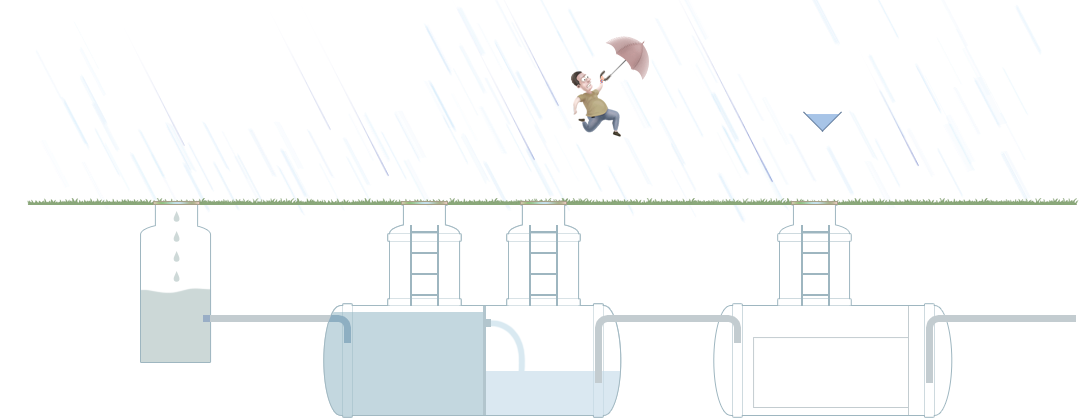
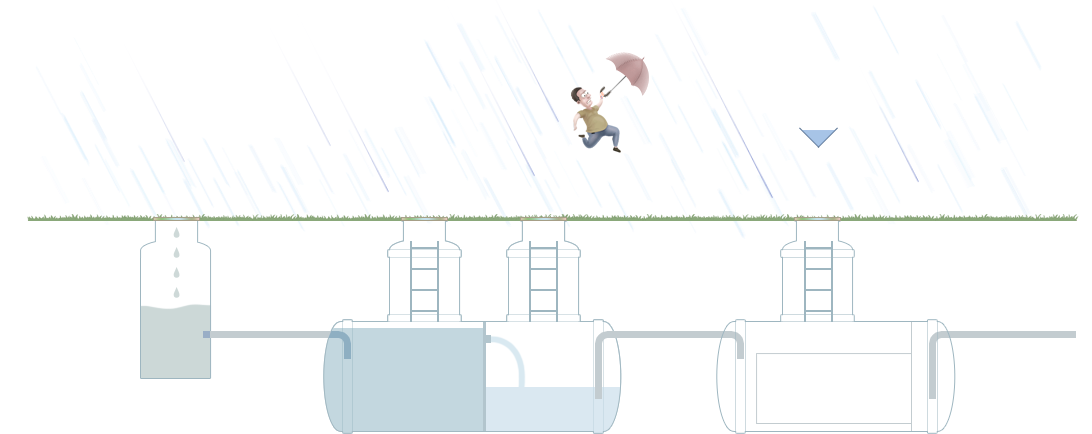
мелкие правки

diff --git a/protected/modules/company/css/structure.css b/protected/modules/company/css/structure.css
@@ -50,12 +50,9 @@
   color: #667075;
 }
 .structure-page .electro-block invert {
-  -moz-border-radius: 2px;
-  -webkit-border-radius: 2px;
-  border-radius: 2px;
-  background-color: #6d984a;
-  border: 1px solid #608743;
+  background-color: #8f8f8f;
   color: #ffffff;
+  padding: 2px 5px 2px 5px;
 }
 .structure-page .electro-block .bg {
   z-index: -1;
@@ -110,12 +107,9 @@
   color: #667075;
 }
 .structure-page .gas-block invert {
-  -moz-border-radius: 2px;
-  -webkit-border-radius: 2px;
-  border-radius: 2px;
-  background-color: #6d984a;
-  border: 1px solid #608743;
+  background-color: #8f8f8f;
   color: #ffffff;
+  padding: 2px 5px 2px 5px;
 }
 .structure-page .gas-block .bg {
   z-index: -1;
@@ -149,7 +143,7 @@
 }
 .structure-page .gas-block .text3 {
   position: absolute;
-  left: 619px;
+  left: 614px;
   top: 76px;
   width: 282px;
   text-align: center;
@@ -160,7 +154,7 @@
   line-height: 24px;
   position: absolute;
   left: 619px;
-  top: 127px;
+  top: 124px;
   width: 282px;
   text-align: center;
 }
@@ -192,12 +186,9 @@
   color: #667075;
 }
 .structure-page .water-in-block invert {
-  -moz-border-radius: 2px;
-  -webkit-border-radius: 2px;
-  border-radius: 2px;
-  background-color: #6d984a;
-  border: 1px solid #608743;
+  background-color: #8f8f8f;
   color: #ffffff;
+  padding: 2px 5px 2px 5px;
 }
 .structure-page .water-in-block .bg {
   z-index: -1;
@@ -281,12 +272,9 @@
   color: #667075;
 }
 .structure-page .water-out-block invert {
-  -moz-border-radius: 2px;
-  -webkit-border-radius: 2px;
-  border-radius: 2px;
-  background-color: #6d984a;
-  border: 1px solid #608743;
+  background-color: #8f8f8f;
   color: #ffffff;
+  padding: 2px 5px 2px 5px;
 }
 .structure-page .water-out-block .bg {
   z-index: -1;
@@ -346,20 +334,17 @@
   color: #667075;
 }
 .structure-page .rain-out-block invert {
-  -moz-border-radius: 2px;
-  -webkit-border-radius: 2px;
-  border-radius: 2px;
-  background-color: #6d984a;
-  border: 1px solid #608743;
+  background-color: #8f8f8f;
   color: #ffffff;
+  padding: 2px 5px 2px 5px;
 }
 .structure-page .rain-out-block .bg {
   z-index: -1;
   position: absolute;
-  top: 58px;
+  top: 50px;
   left: 50%;
   width: 1092px;
-  height: 418px;
+  height: 434px;
   margin-left: -546px;
   background-image: url(../../img/infra/infra5-bg.png);
 }
@@ -370,14 +355,14 @@
   line-height: 19px;
   position: absolute;
   left: 59px;
-  top: 84px;
+  top: 90px;
   width: 345px;
   text-align: left;
 }
 .structure-page .rain-out-block .text2 {
   position: absolute;
   left: 633px;
-  top: 84px;
+  top: 90px;
   width: 250px;
   text-align: center;
 }
@@ -387,7 +372,7 @@
   line-height: 24px;
   position: absolute;
   left: 633px;
-  top: 129px;
+  top: 140px;
   width: 250px;
   text-align: center;
 }

diff --git a/protected/modules/company/less/structure.less b/protected/modules/company/less/structure.less
@@ -49,7 +49,9 @@
             }
         }
         & invert {
-            .invert-text;
+            background-color: @colorTextLight;
+            color: @colorLinkActive;
+            padding: 2px 5px 2px 5px;
         }
     }
 
@@ -124,7 +126,7 @@
         }
         .text3 {
             position:absolute;
-            left: 619px;
+            left: 619px - 5px;
             top: 76px;
             width: 282px;
             text-align: center;
@@ -133,7 +135,7 @@
             .bold;
             position:absolute;
             left: 619px;
-            top: 127px;
+            top: 124px;
             width: 282px;
             text-align: center;
         }
@@ -222,7 +224,7 @@
         height: 558px;
         
         .bg {
-            .bg(1092px, 418px, 58px);
+            .bg(1092px, 434px, 50px);
             background-image: url(../../img/infra/infra5-bg.png);
         }
         .icon {
@@ -232,14 +234,14 @@
             line-height: 19px;
             position:absolute;
             left: 59px;
-            top: 84px;
+            top: 90px;
             width: 345px;
             text-align: left;
         }
         .text2 {
             position:absolute;
             left: 633px;
-            top: 84px;
+            top: 90px;
             width: 250px;
             text-align: center;
         }
@@ -247,7 +249,7 @@
             .bold;
             position:absolute;
             left: 633px;
-            top: 129px;
+            top: 140px;
             width: 250px;
             text-align: center;
         }

diff --git a/protected/extensions/widgets/mainPage/css/square.css b/protected/extensions/widgets/mainPage/css/square.css
@@ -15,23 +15,6 @@
   background-position: center 99%;
   color: #48cdff !important;
 }
-.square-widget .summary {
-  display: none;
-  font-family: "pf_dindisplay_promedium", "Helvetica Neue", Helvetica, Arial, sans-serif;
-  font-size: 14px;
-  line-height: 1;
-  padding-bottom: 15px;
-}
-.square-widget .summary invert {
-  -moz-border-radius: 2px;
-  -webkit-border-radius: 2px;
-  border-radius: 2px;
-  background-color: #6d984a;
-  border: 1px solid #608743;
-  color: #ffffff;
-  display: inline-block;
-  padding: 5px 7px 3px;
-}
 .square-widget .text {
   font-family: "pf_dindisplay_proregular", "Helvetica Neue", Helvetica, Arial, sans-serif;
   font-size: 17px;

diff --git a/protected/extensions/widgets/mainPage/less/square.less b/protected/extensions/widgets/mainPage/less/square.less
@@ -13,20 +13,6 @@
         color: @colorLinkBlueHover !important;
     }
 
-    .summary {
-
-        display: none;
-
-        .font(PF, medium);
-        .font-size(14, 1);
-        padding-bottom: 15px;
-
-        invert {
-            .invert-text;
-            display: inline-block;
-            padding: 5px 7px 3px;
-        }
-    }
     .text {
         .font(PF, regular);
         .font-size(17);

diff --git a/protected/views/less/custom.less b/protected/views/less/custom.less
@@ -326,14 +326,6 @@ p {
     min-height: 1px;
 }
 
-// Локальное выделение текста
-.invert-text() {
-    .border-radius(2px);
-    background-color: #6d984a;
-    border: 1px solid #608743;
-    color: @colorLinkActive;
-}
-
 // Бордюры
 .border-radius(@r) {
     -moz-border-radius:     @r;
